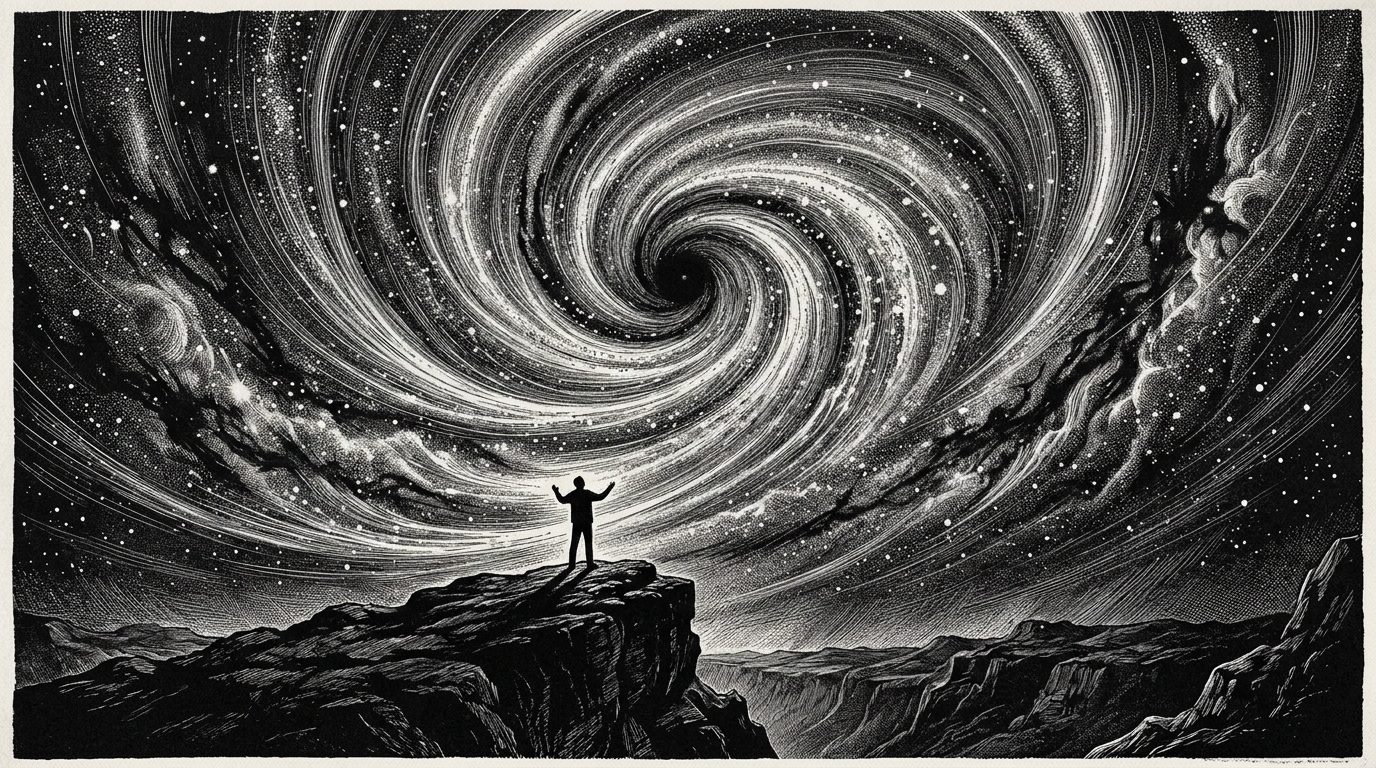
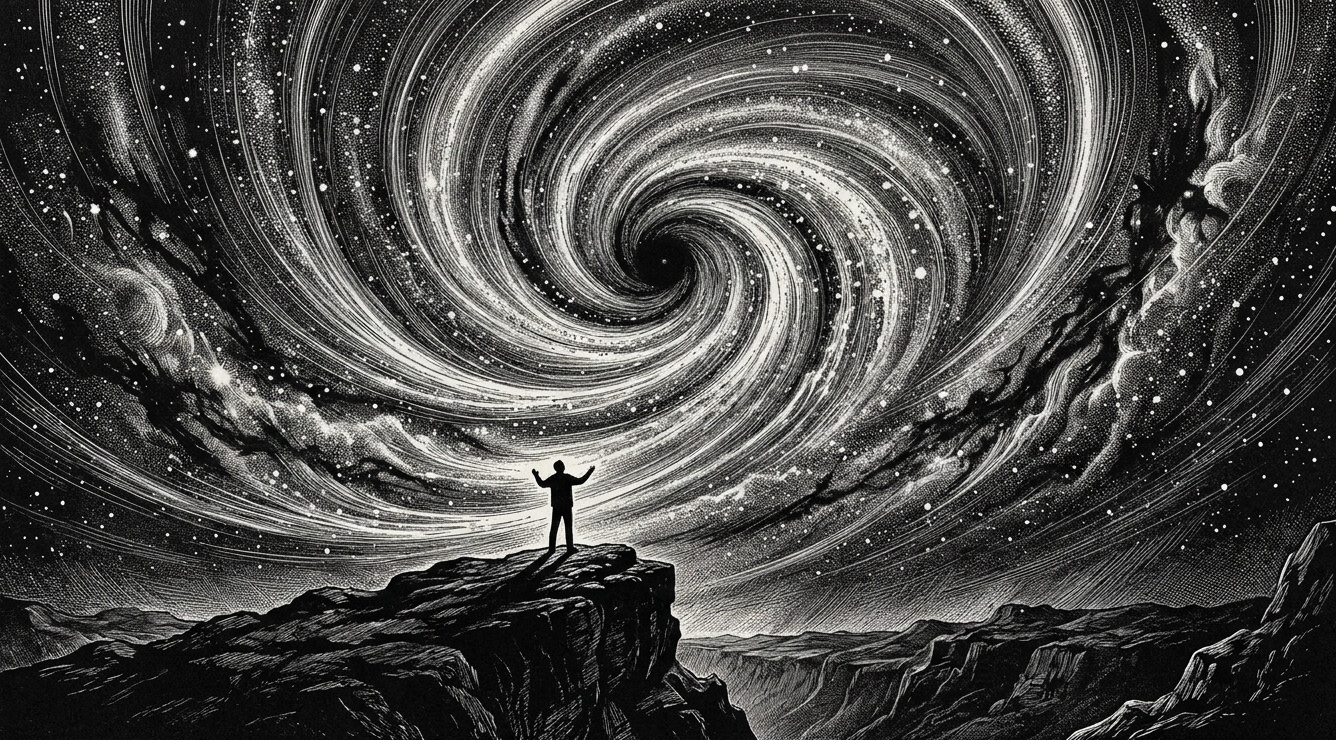
fix(images): crop out lithograph white paper borders from eclipse and dome vortex images, remove container border separation

diff --git a/src/components/features/landing/structure-section.tsx b/src/components/features/landing/structure-section.tsx
@@ -44,7 +44,7 @@ export function StructureSection() {
 
           {/* Column 03: Portrait Eclipse Artwork (3 cols) */}
           <div className="lg:col-span-3 flex justify-center py-4 lg:py-0">
-            <div className="relative w-full max-w-[340px] lg:max-w-none aspect-[3/4.4] border border-[rgba(245,239,235,0.15)] bg-[#111113] overflow-hidden shadow-2xl">
+            <div className="relative w-full max-w-[340px] lg:max-w-none aspect-[3/4.4] bg-[#111113] overflow-hidden shadow-2xl">
               <Image
                 src="/images/assets/structure-eclipse.jpg"
                 alt="Total solar eclipse coronal halo over volumetric cloudscape"

diff --git a/src/components/features/landing/observatory-architecture.tsx b/src/components/features/landing/observatory-architecture.tsx
@@ -130,7 +130,7 @@ export function ObservatoryArchitecture() {
 
           {/* Right Column: Monumental Swirling Galaxy Vortex Artwork */}
           <div className="lg:col-span-7">
-            <div className="relative w-full aspect-[16/10] sm:aspect-[16/9] border border-[rgba(245,239,235,0.15)] bg-[#111113] overflow-hidden group shadow-2xl">
+            <div className="relative w-full aspect-[16/10] sm:aspect-[16/9] bg-[#111113] overflow-hidden group shadow-2xl">
               <Image
                 src={slide.image}
                 alt={slide.alt}
